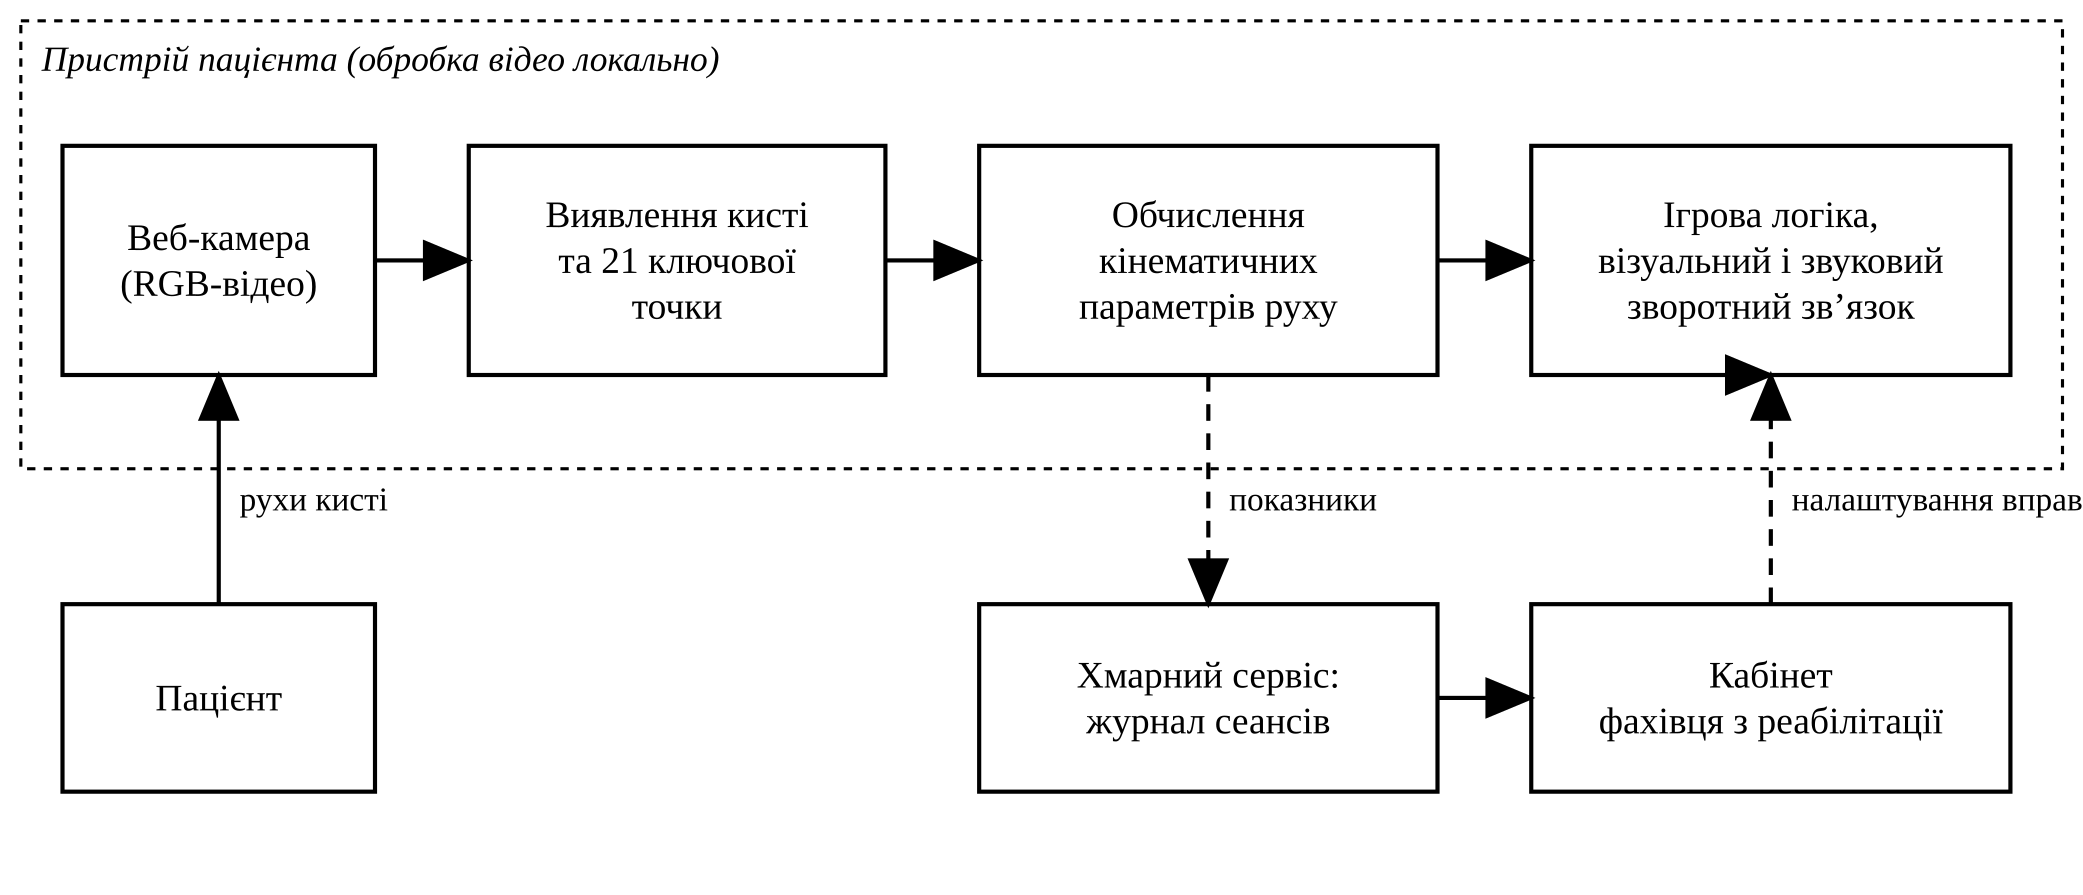
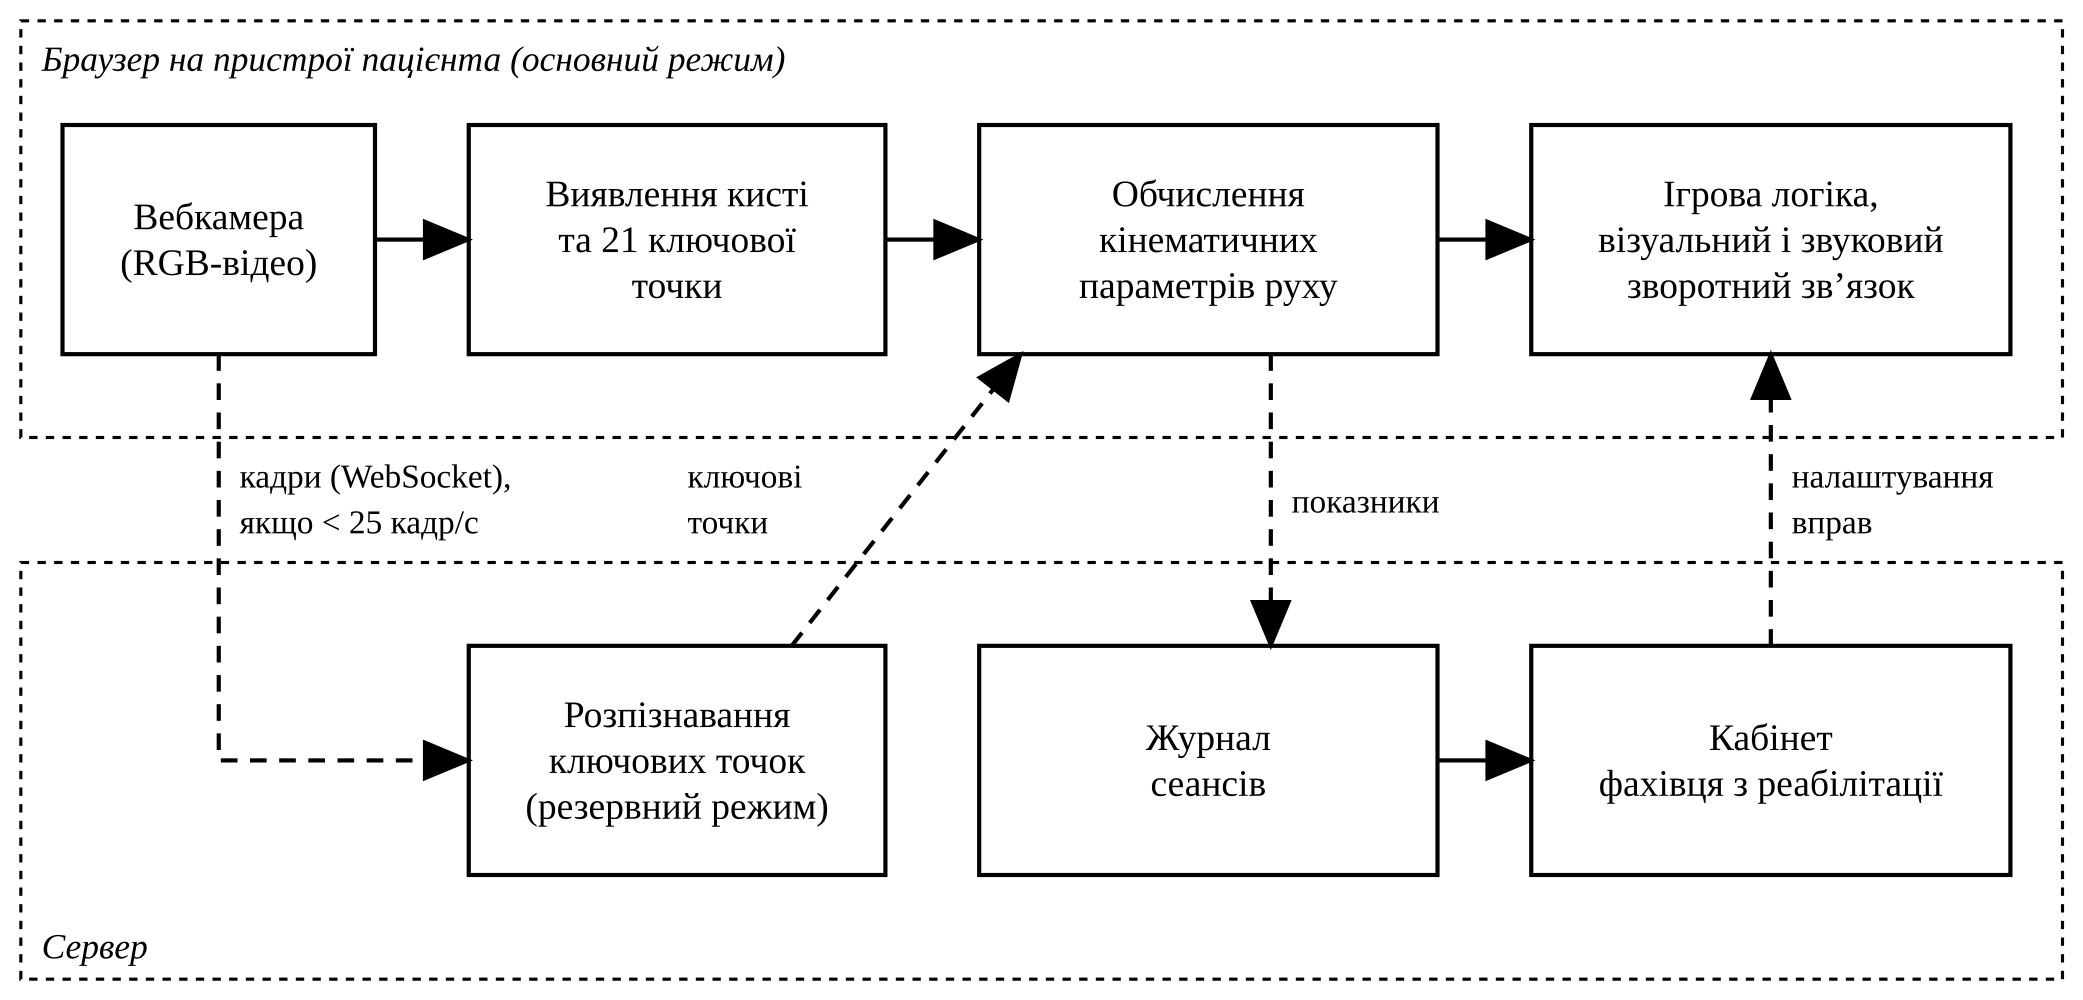
docs: update AGENTS.md and introduction with tracking hand and architecture details

diff --git a/AGENTS.md b/AGENTS.md
@@ -48,10 +48,10 @@ python3 tools/check.py --sort-bib   # впорядкувати джерела з
 
 Що вже зафіксовано в розділі 1 і має узгоджуватися з подальшими розділами:
 
-- **Відстеження кисті.** Застосовується MediaPipe Hands: 21 ключова точка у форматі 2,5D, звичайна вебкамера, обробка на пристрої пацієнта.
+- **Відстеження кисті.** Застосовується MediaPipe Hands: 21 ключова точка у форматі 2,5D, звичайна вебкамера, основна обробка в браузері на пристрої пацієнта.
 - **Показники.** Застосунок обчислює кути згинання суглобів пальців, відстань між кінчиками пальців, ступінь розкриття кисті, частоту і ритм рухів. Показники нормуються на розмір кисті, перед вправами проводиться калібрування.
 - **Вправи.** Щипковий захват, протиставлення великого пальця, розкриття і стискання кисті, ізольовані рухи пальців. Складність адаптується до можливостей пацієнта.
-- **Архітектура.** Клієнтський застосунок, сервер з журналом сеансів, кабінет фахівця. На сервер передаються лише числові показники, відео з пристрою не передається.
+- **Архітектура.** Вебзастосунок у браузері (без встановлення), сервер з журналом сеансів, кабінет фахівця. В основному режимі на сервер передаються лише числові показники. Якщо частота обробки на пристрої нижча за 25 кадр/с, вмикається резервний режим: кадри передаються на сервер через WebSocket (захищене з'єднання, без збереження), сервер повертає координати ключових точок.
 - **Завдання дослідження.** П'ять завдань, перелічених у підрозділі 1.5. Їх треба повторити у вступі й закрити у висновках.
 
 ## Правила написання (обов'язкові)
